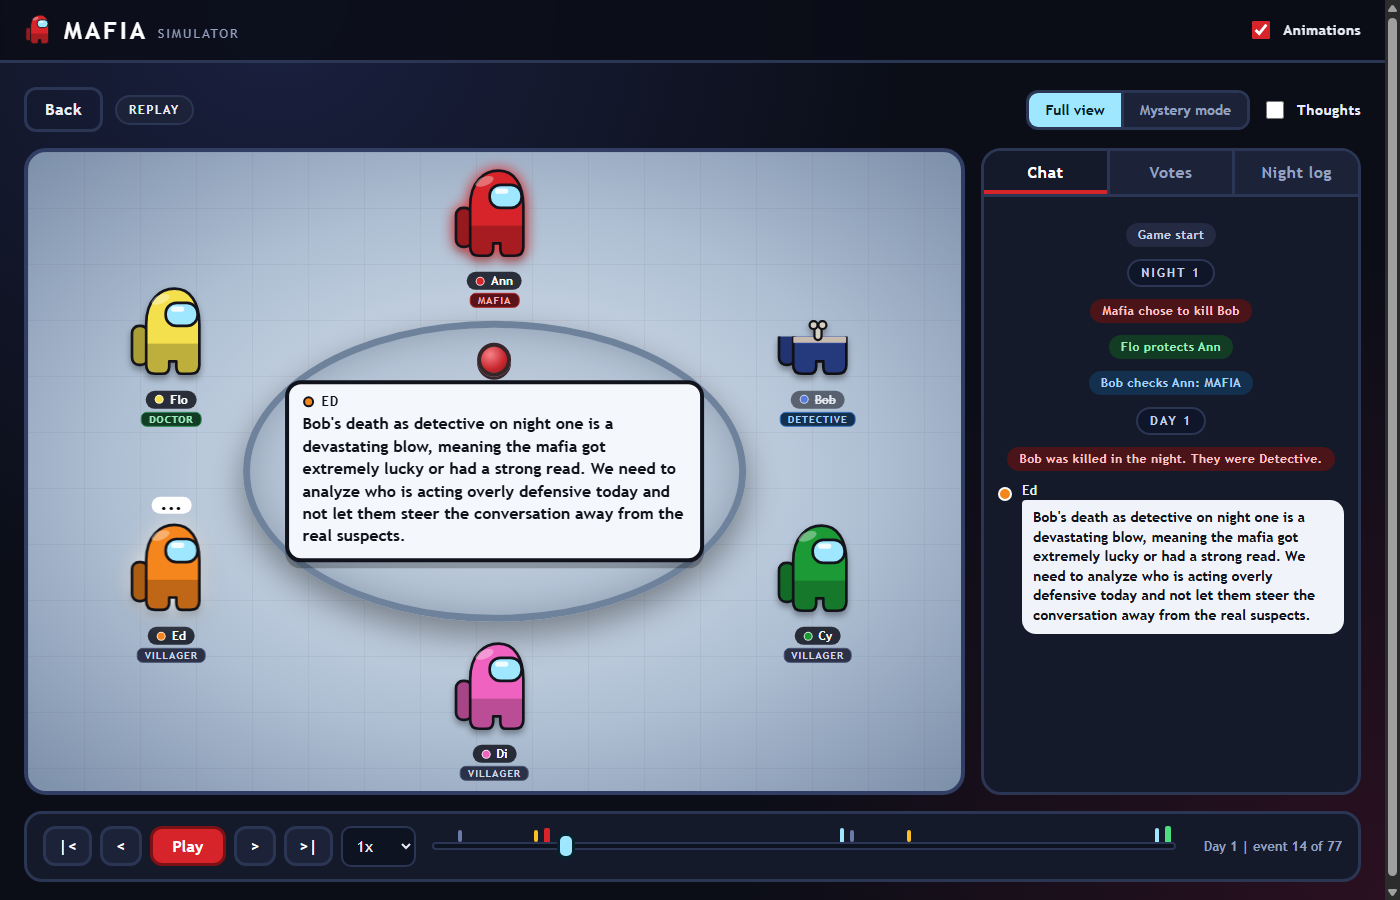
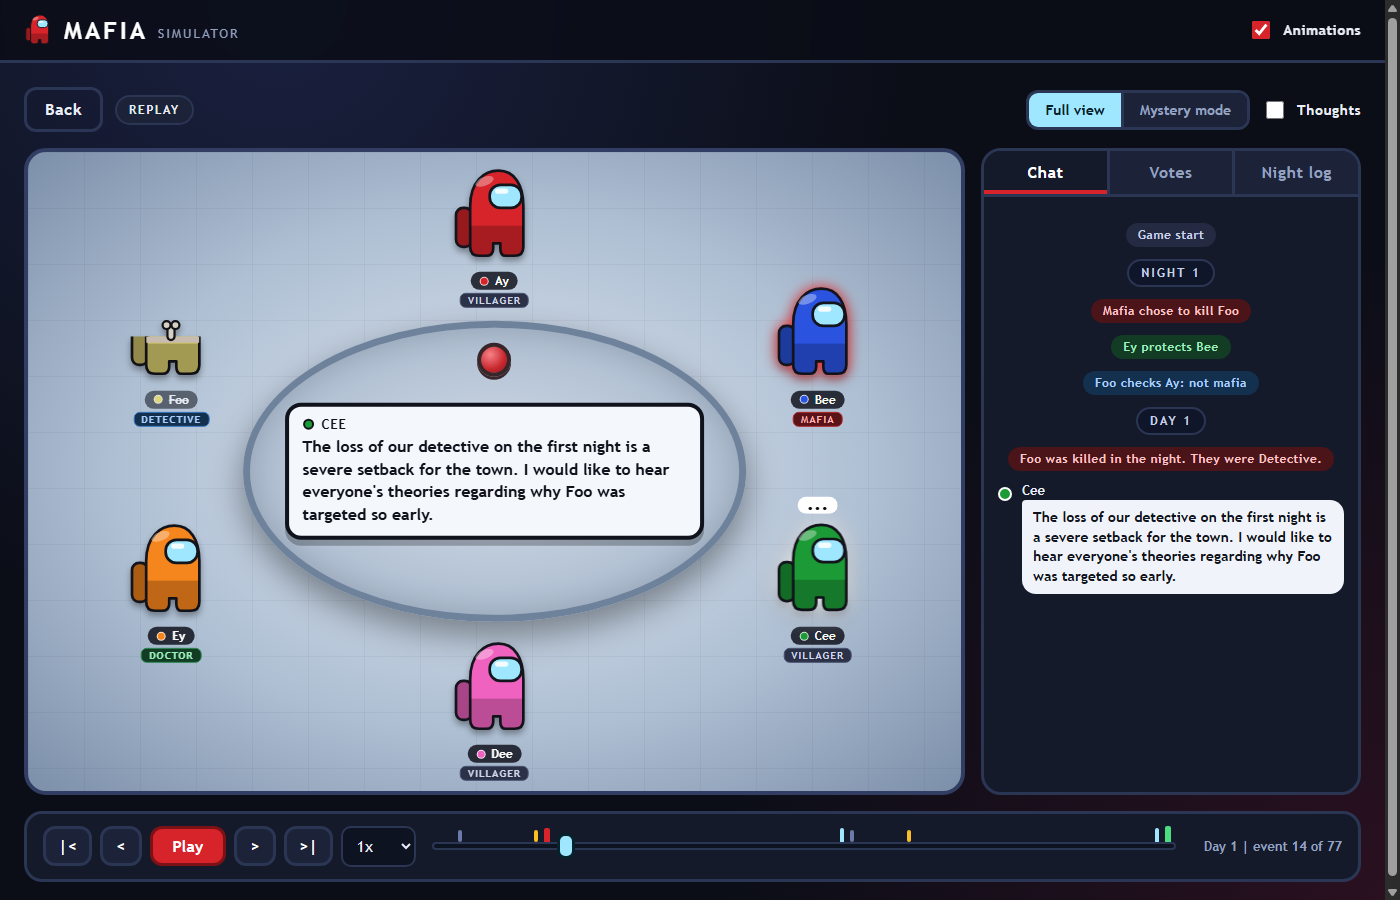
Add result charts to README, retake screenshots with new names, document bias correction

diff --git a/README.md b/README.md
@@ -1,4 +1,4 @@
-# Mafia Simulator
+# Mafia Simulator
 
 A game of Mafia played entirely by AI players, with a browser viewer so you can watch it unfold. The players are large language models that talk, bluff, scheme in a private night channel, and vote each other out. The viewer draws the game as a crew around a cafeteria table, in the style of Among Us.
 
@@ -6,6 +6,21 @@ The project also measures how well the players reason. The question it asks is n
 
 ![A day discussion in full view](docs/images/day_full.png)
 
+## Results at a glance
+
+Thirty real games were judged for logic, not wins. Full numbers, methods and caveats are in [docs/QUALITY_REPORT.md](docs/QUALITY_REPORT.md), including section 2.7, which lists what improved, what regressed, and what stayed about the same.
+
+![Headline results](docs/images/chart_headlines.svg)
+
+![How each role's decisions were rated](docs/images/chart_verdicts_by_role.svg)
+
+Mafia and detective play is mostly sound. Villager play is the weak spot, because early in the game there is little evidence to reason from.
+
+![Shuffling fixed list position bias for one model, not the other](docs/images/chart_position_bias.svg)
+
+![Telling the doctor their own conclusion removes the mistake](docs/images/chart_doctor_replay.svg)
+
+The doctor fix was tested by replaying real prompts, and is not yet adopted in the game itself.
 ## What you get
 
 * **A rules engine that does not use any AI.** It runs the night and day phases, resolves kills and saves, counts votes, and decides who won. It is deterministic for a given seed and is tested without any model calls.
@@ -48,8 +63,6 @@ The project also measures how well the players reason. The question it asks is n
   <img src="docs/images/home.png" alt="Home screen" width="62%">
   <img src="docs/images/mobile.png" alt="Phone sized layout" width="28%">
 </p>
-
-The screenshots were taken from games played before the players were renamed, so they show the earlier names.
 
 ## Quick start
 
@@ -144,7 +157,7 @@ Game engine  ->  Event stream  ->  Viewer
 * **Information hiding is structural.** Every event carries an audience. `view_for()` builds each player's view from the events that player may see, and agents receive nothing else. Tests assert that a villager never sees mafia chat or roles, and `audit.py` re-checks every real prompt after the fact.
 * **The spectator has a special event.** The `setup` event holds all roles and is visible to nobody in the game. The viewer and the log can see it, and no agent can.
 * **Private thoughts.** A player's reasoning is logged as an event only that player can see. It is never shown to the others.
-* **Lists are shuffled in the prompts.** The list of valid targets, and the list of who is alive, appear in a different order for every request. Models lean toward the first name in a list, and a batch of real games showed the detective checking the first listed player 85% of the time against 21% by chance. The shuffle removed that bias.
+* **Lists are shuffled in the prompts.** The list of valid targets, and the list of who is alive, appear in a different order for every request. Models lean toward the first name in a list, and a batch of real games showed the detective checking the first listed player 85% of the time against 21% by chance. The shuffle removed that bias for gemini-3.5-flash-lite. It did not for gemini-3.1-flash-lite, whose mafia still picked the first listed target 58% of the time, so the bias is model specific.
 * **The viewer is a function of the event list.** Everything on screen at a point in the game is computed from the events up to that point. That is why the timeline, replay, and live mode all work the same way. Live mode is just a replay of a list that is still growing.
 * **The LLM client** uses only the standard library. It caps requests per minute, backs off on rate limit and server errors, counts tokens, and caches responses on disk in `.cache/llm` so an interrupted game or batch does not repeat its calls. Delete that folder, or use `--no-cache` on `batch.py`, if you want fresh answers for a prompt you have already run.
 
@@ -211,6 +224,7 @@ mafia/
   audit.py     the leak audit
   judge.py     the judge model: casebook, rating, agreement between judges
   ablate.py    replay experiments that test a prompt change on real prompts
+  charts.py    draws the result charts as SVG
   setup.py     builds agents, loads .env, holds the player names
   eventlog.py  JSON lines log writer
 web/           index.html, style.css, app.js, crewmate.js (the viewer)
@@ -224,6 +238,7 @@ analyze.py     report on a batch
 audit.py       leak audit
 compare_judges.py   agreement between two judges
 ablate.py      test a prompt change by replaying real prompts
+make_charts.py  rebuild docs/images/chart_*.svg from the logs
 ```
 
 Each game writes `logs/game_<timestamp>.jsonl`, one event per line. Real LLM games also write `logs/trace_<timestamp>.jsonl` with the full prompts and replies, which the audit and the bias checks read. Trace files contain every player's hidden information, so keep them private. Batches write `logs/batch_*.json` and judge runs write `logs/judge*_*.json`.
@@ -234,7 +249,7 @@ Each game writes `logs/game_<timestamp>.jsonl`, one event per line. Real LLM gam
 python -m pytest
 ```
 
-147 tests cover the rules, win conditions, vote ties, visibility, the LLM agent and its prompts, the LLM client's retry and quota handling, the web server and its security checks, batches, every analysis tool, and the replay experiments. The leak audit is tested by injecting four kinds of leak and requiring each to be caught, the judge is tested with a scripted judge, and the replay experiments check that only real situations become cases and that the judge comparison is blinded. None of the tests call a real model.
+157 tests cover the rules, win conditions, vote ties, visibility, the LLM agent and its prompts, the LLM client's retry and quota handling, the web server and its security checks, batches, every analysis tool, and the replay experiments and the SVG charts. The leak audit is tested by injecting four kinds of leak and requiring each to be caught, the judge is tested with a scripted judge, and the replay experiments check that only real situations become cases and that the judge comparison is blinded. None of the tests call a real model.
 
 ## Security notes
 

diff --git a/docs/DEVLOG.md b/docs/DEVLOG.md
@@ -1,4 +1,4 @@
-# Development log
+# Development log
 
 A running record of what was built, what was tried, and what the results showed. Newest entries are at the bottom. Every experiment and change gets an entry, with the commands needed to reproduce it.
 
@@ -417,6 +417,21 @@ Blind pairwise judge, 14 pairs: hint better 7, control better 0, ties 7 (sign te
 * Neither fix is built into the game. The doctor note is the strongest candidate. Adopting it means computing the note in the engine from the doctor's own protections and quiet nights, and then confirming in a fresh batch that "doctor voted a provably town player" drops to 0 and nothing else changes.
 * The villager hint needs a full batch rated by the primary judge. A replay of single decisions cannot show a change in game quality.
 
+---
+
+## 2026-10-09: charts, improved/regressed summary, bias correction, git, README refresh
+
+**What changed:**
+* Added mafia/charts.py (plain SVG: stat tiles, stacked bars, dumbbell, bars with range) and make_charts.py, which rebuilds docs/images/chart_*.svg from the logs. 10 tests in 	ests/test_charts.py check valid XML, a text twin of the data in each chart, label placement, a visible zero, escaping, dark mode colors and no dashed lines.
+* The palette validator flagged the yellow lightness and the gray chroma. Left as designed: every status carries an icon and a word, and each chart has a text twin.
+* Added report section 2.7: what improved, what regressed, what stayed about the same. Regressions listed plainly (calls per game, tokens, minutes, doctor mistakes, nothing specific talk, town vote accuracy, agreement phrases).
+* Initialized git. Commit 39cd498 holds code, docs and result files. Not committed: raw game logs, prompt traces, .env, caches. No remote, nothing pushed.
+* Retook all README screenshots from a fresh 6 player game (game_1791594765, gemini-3.1-flash-lite, seed 7, 0 invalid, town wins) so they show the new names.
+* README: added a results section with the four charts, corrected the test count to 157, listed charts.py and make_charts.py.
+
+**Correction:** I had written that the shuffle fixed list position bias. It fixed it for gemini-3.5-flash-lite only. For gemini-3.1-flash-lite the mafia still picked the first listed target 57.9% of the time. The chart title, report and README now say so.
+
+**Still pending:** adopt the doctor note and confirm in a batch; confirm the villager hint in full games (see open questions below).
 ---
 
 ## Open questions and next experiments
